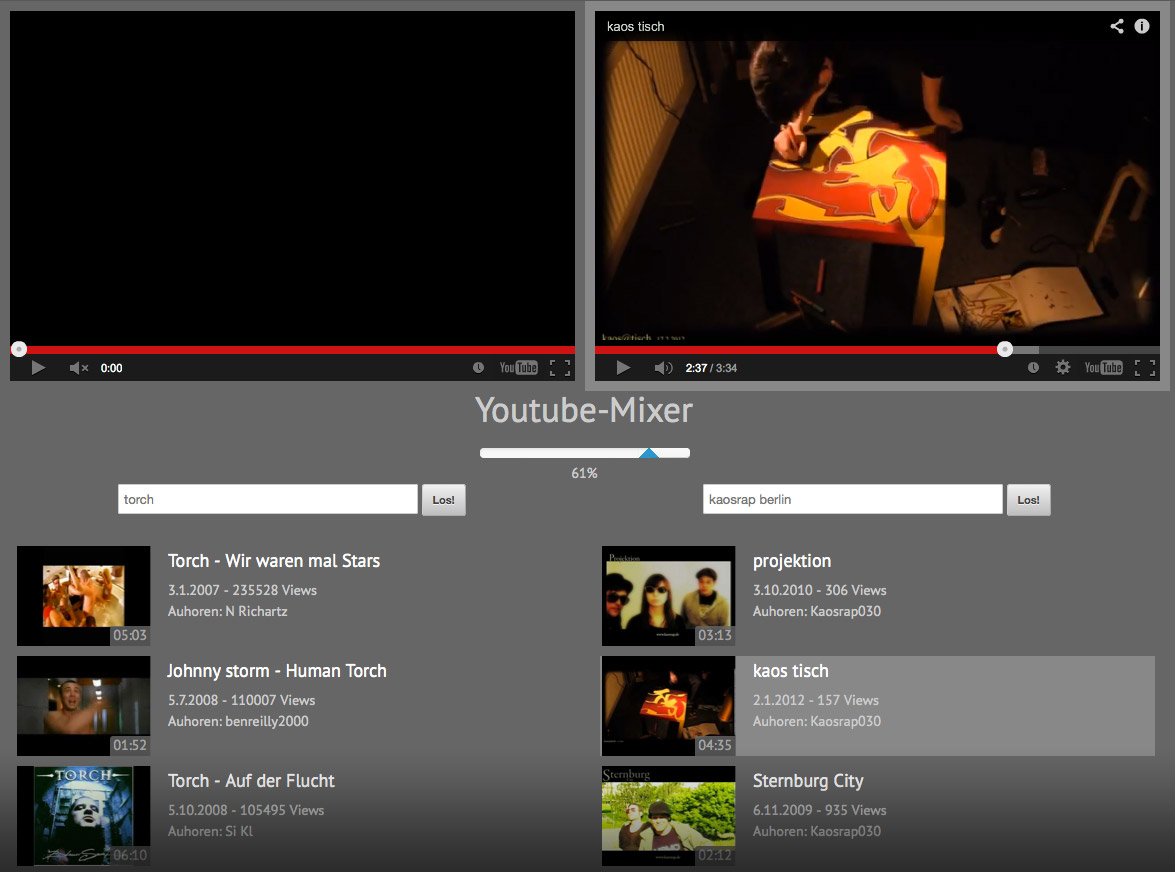
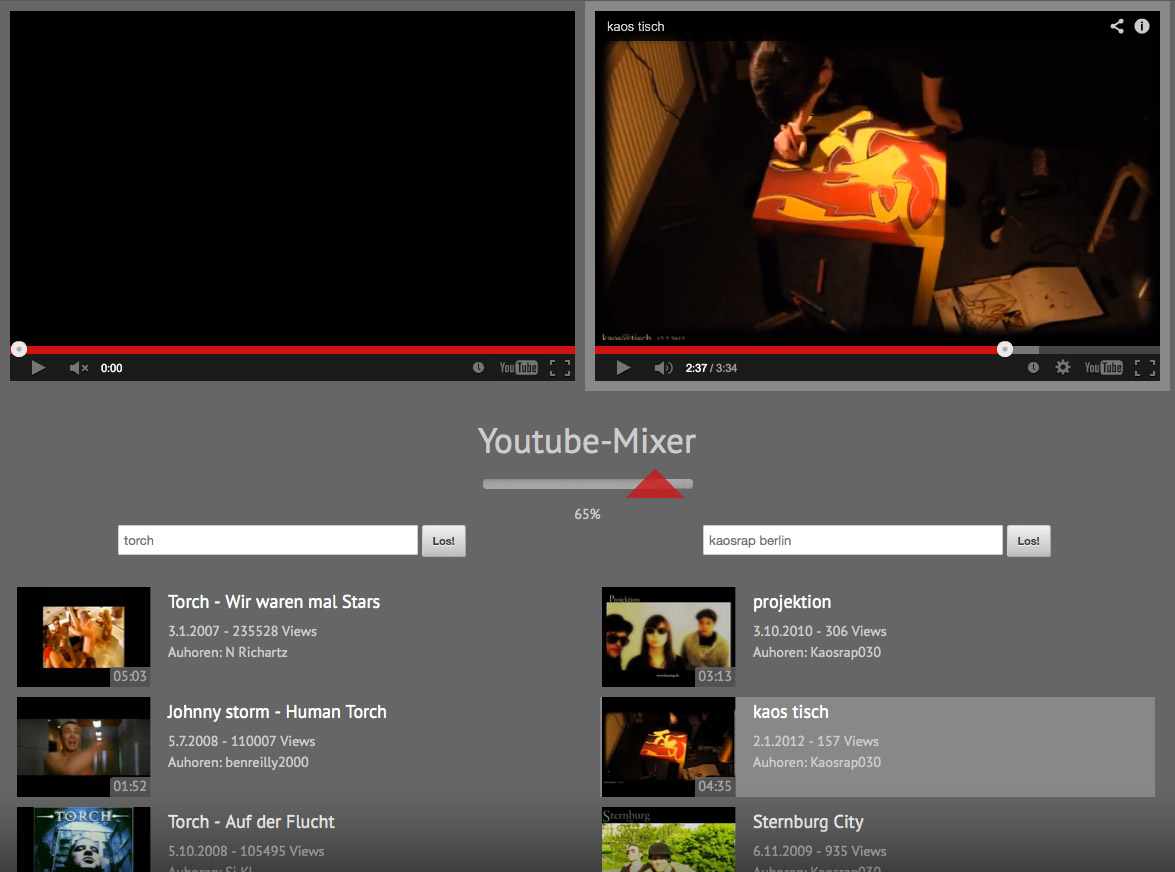
fader styling

Changed region(s): [[0.3983, 0.4335, 1.0, 1.0], [0.0, 0.5573, 0.3983, 1.0]]

diff --git a/css/app.css b/css/app.css
@@ -18,6 +18,43 @@ h1, h2, h3, h4, h5, h6 {
   text-align: center;
 }
 
+/*player*/
+.player{
+  padding:10px;
+  background-color: transparent;
+}
+
+.player.active{
+  background-color:#888;
+}
+
+/*mixer*/
+h2{
+  margin-top:20px;
+}
+
+.slider.slider-horizontal .slider-handle.triangle {
+  border-bottom-color: #cc181e;
+  border-width: 0 29px 30px;
+  top:-11px;
+  margin-left:-30px;
+}
+
+.slider-selection {
+  background-color: #aaa;
+  background-image: linear-gradient(to bottom, #aaa, #999);
+}
+
+.slider-track {
+  background-color: #aaa;
+  background-image: linear-gradient(to bottom, #999, #aaa);
+}
+
+.volume-slider-state{
+  margin-top:10px;
+}
+
+/*search*/
 .record{
   position: relative;
   text-align: left;
@@ -63,13 +100,4 @@ h1, h2, h3, h4, h5, h6 {
 
 input.search{
   min-width:300px;
-}
-
-.player{
-  padding:10px;
-  background-color: transparent;
-}
-
-.player.active{
-  background-color:#888;
 }

diff --git a/js/app.js b/js/app.js
@@ -3,7 +3,7 @@ jQuery(function($){
   $('#volume-slider').slider()
                      .on('slide', App.set_volume)
                      .on('slide', function(e){
-                        $('.volume-slider-state').html(e.value+'%');
+                        $('.volume-slider-state').html(Math.abs(e.value)+'%');
                       });
 
   //triggers App.bootstrap and ensures jQuery is loaded
